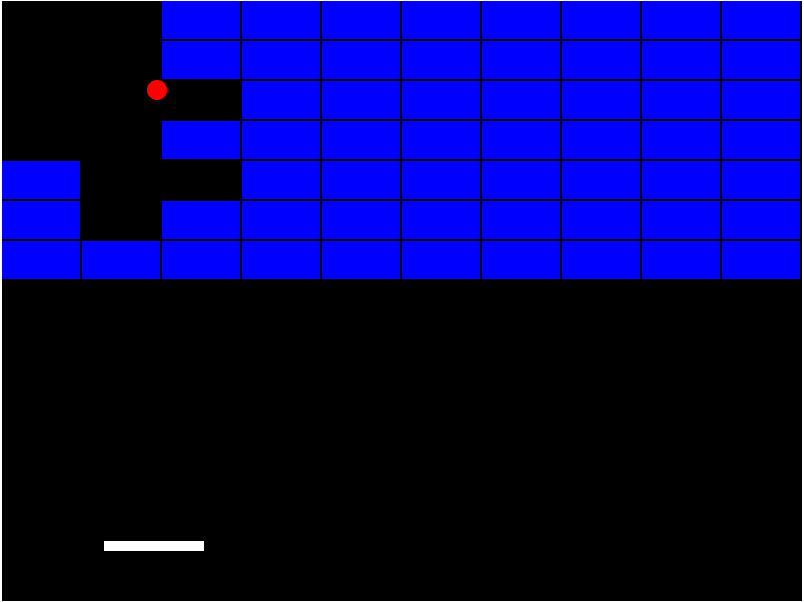
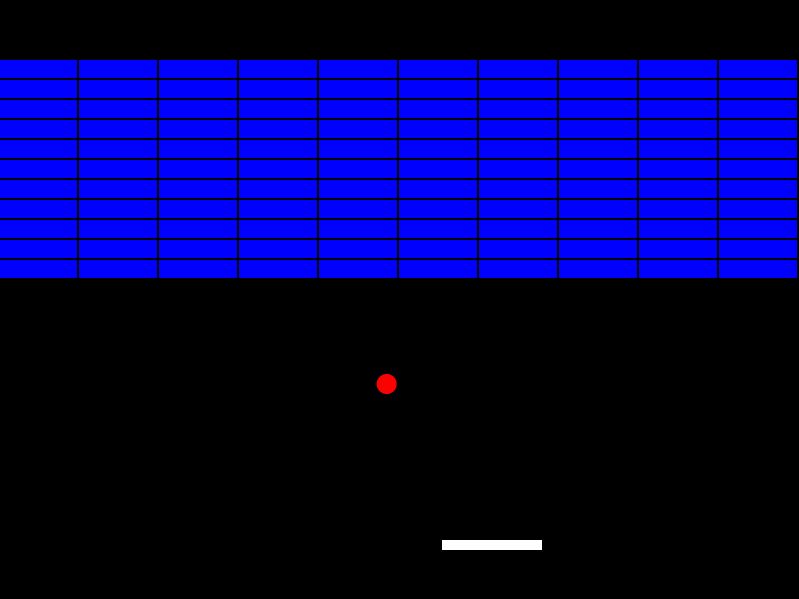
finished BrickBreak game

diff --git a/JavaScript/BrickBreakerGame.js b/JavaScript/BrickBreakerGame.js
@@ -15,12 +15,13 @@ const PADDLE_THICKNESS = 10;
 const PADDLE_DIST_FROM_EDGE =60;
 
 const BRICK_W = 80;
-const BRICK_H = 40;
+const BRICK_H = 20;
 const BRICK_COLS = 10;
-const BRICK_ROWS = 7;
+const BRICK_ROWS = 14;
 const BRICK_GAP = 2;
 
 var brickGrid = new Array(BRICK_COLS * BRICK_ROWS);
+var bricksLeft = 0;
 
 mouseX = 0;
 mouseY = 0;
@@ -35,9 +36,9 @@ window.onload = function () {
     canvas.addEventListener('mousemove', updateMousePos);
 
     brickReset();
-   // ballReset();
+    ballReset();
 }
-    v
+    
 function updateMousePos(evt){
     var rect = canvas.getBoundingClientRect();
     var root = document.documentElement;
@@ -46,12 +47,24 @@ function updateMousePos(evt){
     mouseY = evt.clientY - rect.top - root.scrollTop;
 
     paddleX = mouseX - PADDLE_WIDTH/2;
+
+    //hack to test ball in any position
+    /*
+    ballX = mouseX;
+    ballY = mouseY;
+    ballSpeedX = 4;
+    ballSpeedY = -4;
+    */
 }
 
 function brickReset(){
-    for(var i=0; i<BRICK_COLS * BRICK_ROWS; i++){
+    bricksLeft = 0;
+    for(var i=0; i< 3 * BRICK_COLS; i++){ // adds an empty space at the top of the screen
+        brickGrid[i] = false
+    }
+    for(var i=3 * BRICK_COLS; i<BRICK_COLS * BRICK_ROWS; i++){ // adds the rest of the bricks to the array
         brickGrid[i] = true;
-       
+       bricksLeft++;
     } // end of for each brick loop
 
 } // end of brickReset func
@@ -76,42 +89,69 @@ function ballMove(){
     ballX += ballSpeedX;
     ballY += ballSpeedY;
         
-    if(ballX > canvas.width){ // right side of screen
+    if(ballX > canvas.width && ballSpeedX > 0.0){ // right side of screen
         ballSpeedX *= -1;
     }
-    if(ballX < 0){ // left side of screen
+    if(ballX < 0 && ballSpeedX < 0.0){ // left side of screen
         ballSpeedX *= -1;
     }
 
     if(ballY > canvas.height){ // bottom of screen
         ballReset();
+        brickReset();
     }
-    if(ballY < 0){ // top of screen
+    if(ballY < 0 && ballSpeedY < 0.0){ // top of screen
         ballSpeedY *= -1;
+    }
+}
+
+function isBrickAtColRow(col, row) {
+    if(col >= 0 && col < BRICK_COLS && row >= 0 && row < BRICK_ROWS){
+        var brickIndexUnderCoord = rowColToArrayIndex(col, row);
+        return brickGrid[brickIndexUnderCoord]
+    } else{
+        return false;
     }
 }
 
 function ballBrickHandling(){
     var ballBrickCol = Math.floor(ballX / BRICK_W);
     var ballBrickRow = Math.floor(ballY / BRICK_H);
-    var brickIndexUnderball = rowColToArrayIndex(ballBrickCol, ballBrickRow)
+    var brickIndexUnderball = rowColToArrayIndex(ballBrickCol, ballBrickRow);
     
     if(ballBrickCol >= 0 && ballBrickCol < BRICK_COLS && ballBrickRow >= 0 && ballBrickRow < BRICK_ROWS){
-        if(brickGrid[brickIndexUnderball] == true){
+        if(isBrickAtColRow(ballBrickCol, ballBrickRow)){
             brickGrid[brickIndexUnderball] = false;
+            bricksLeft--;
+            console.log(bricksLeft);
+            
 
             var prevBallX = ballX - ballSpeedX;
             var prevBallY = ballY - ballSpeedY;
             var prevBrickCol = Math.floor(prevBallX / BRICK_W);
             var prevBrickRow = Math.floor(prevBallY / BRICK_H);
 
-            if(prevBrickCol != ballBrickCol){
-                ballSpeedX *= -1;
+            var bothTestsFailed = true;
+
+            if(prevBrickCol != ballBrickCol){                
+                if(isBrickAtColRow(prevBrickCol, ballBrickRow) == false){ //checking if there is a brick on the side of the brick that was hit
+                    ballSpeedX *= -1;
+                    bothTestsFailed = false;
+                }                
             }
             if(prevBrickRow != ballBrickRow){
-                ballSpeedY *= -1;
+                
+                if(isBrickAtColRow(prevBrickRow, ballBrickCol) == false){ //checking if there is a brick on the top or bottom of the brick that was hit
+                    ballSpeedY *= -1;
+                    bothTestsFailed = false;
+                }                
             }
             
+            if(bothTestsFailed){ // prevents ball from going right through the edge of a brick when other bricks are around it
+                ballSpeedX *= -1;
+                ballSpeedY *= -1;
+            }
+
         } // end of if birck is there remove it and change ball direction        
     } // end of checking for valid col and row
 } // end of ballBrickHandling func
@@ -133,8 +173,12 @@ function ballPaddleHandling(){
             var ballDistFromPaddleCenterX = ballX - centerOfPaddleX;
 
             ballSpeedX = ballDistFromPaddleCenterX * 0.35; // increase this number for more ball speed off the paddle
-    }
-}
+
+            if(bricksLeft == 0){
+                brickReset();
+            } // out of bricks, add new grid of bricks
+    } // ball center inside paddle
+} // end of ballPaddleHandling
 
 function drawAll(){
     

diff --git a/css/main.css b/css/main.css
@@ -3,6 +3,7 @@
 @import url(http://fonts.googleapis.com/css?family=Quattrocento+Sans);
 
 body {
+  background-image: url('../media/background02.jpg');
   background-color: #979797;
   color: #fff;
   margin: 0;
@@ -31,14 +32,16 @@ body, button {
 }
 h2, h3 {
   font-weight: normal;
-  margin: 0;}
+  margin: 0;
+}
 h2 {
-  color: #666;
+  color: rgb(194, 151, 176);
   text-transform: uppercase;
   letter-spacing: 0.14em;
   line-height: 1em;
-  padding: 20px 0 0 20px;
+  padding: 20px 0 20px 20px;  
   text-align:center;
+  
 }
 h3 {
   letter-spacing: 0.2em;
@@ -56,7 +59,7 @@ a {
 button {
   font-size: 90%;
   text-align: left;
-  text-transform: uppercase;
+  text-transform: uppercase;  
 }
 .icon-bar {
   overflow: auto; 
@@ -127,7 +130,7 @@ img{
   .slide-btn {
     border: none;
     background: none;
-    color: #000;
+    color: rgb(255, 255, 255);
     font-size: 200%;
     line-height: 0.5em;
   }

diff --git a/games/BrickBreak.html b/games/BrickBreak.html
@@ -4,10 +4,14 @@
     <meta charset="UTF-8">
     <meta name="viewport" content="width=device-width, initial-scale=1.0">
     <meta http-equiv="X-UA-Compatible" content="ie=edge">
+    <link rel="stylesheet" href="../css/games.css">
     <title>Brick Breaker game</title>
 </head>
 <body>
-    <canvas id="gameCanvas" width="800" height="600"></canvas>
+    <div id="canvas-container">
+        <canvas id="gameCanvas" width="800" height="600"></canvas>
+    </div>
+<a href="../index.html">Main Page</a>
 </body>
 <script type="text/javascript" src="../JavaScript/BrickBreakerGame.js"></script>
 </html>

diff --git a/css/games.css b/css/games.css
@@ -1,0 +1,19 @@
+body{
+    background-image: url("../media/background01.jpg");
+}
+#canvas-container{
+    width: 100%;
+    text-align: center;    
+}
+canvas{
+    margin-top: 5%;
+    display: inline;
+}
+a{
+    position: absolute;
+    top: 0;
+    left: 20px;
+    text-align: center;
+    font-size: 3em;
+    color: white;
+}

diff --git a/index.html b/index.html
@@ -12,7 +12,7 @@
     <section class="center">
     <header>
         <h1>Term Project Games</h1>
-        <br><h2>Click image to launch the game</h2>
+        <h2>Click image to launch the game</h2>
     </header>
       <div class="slider">
         <div class="slide-viewer">
